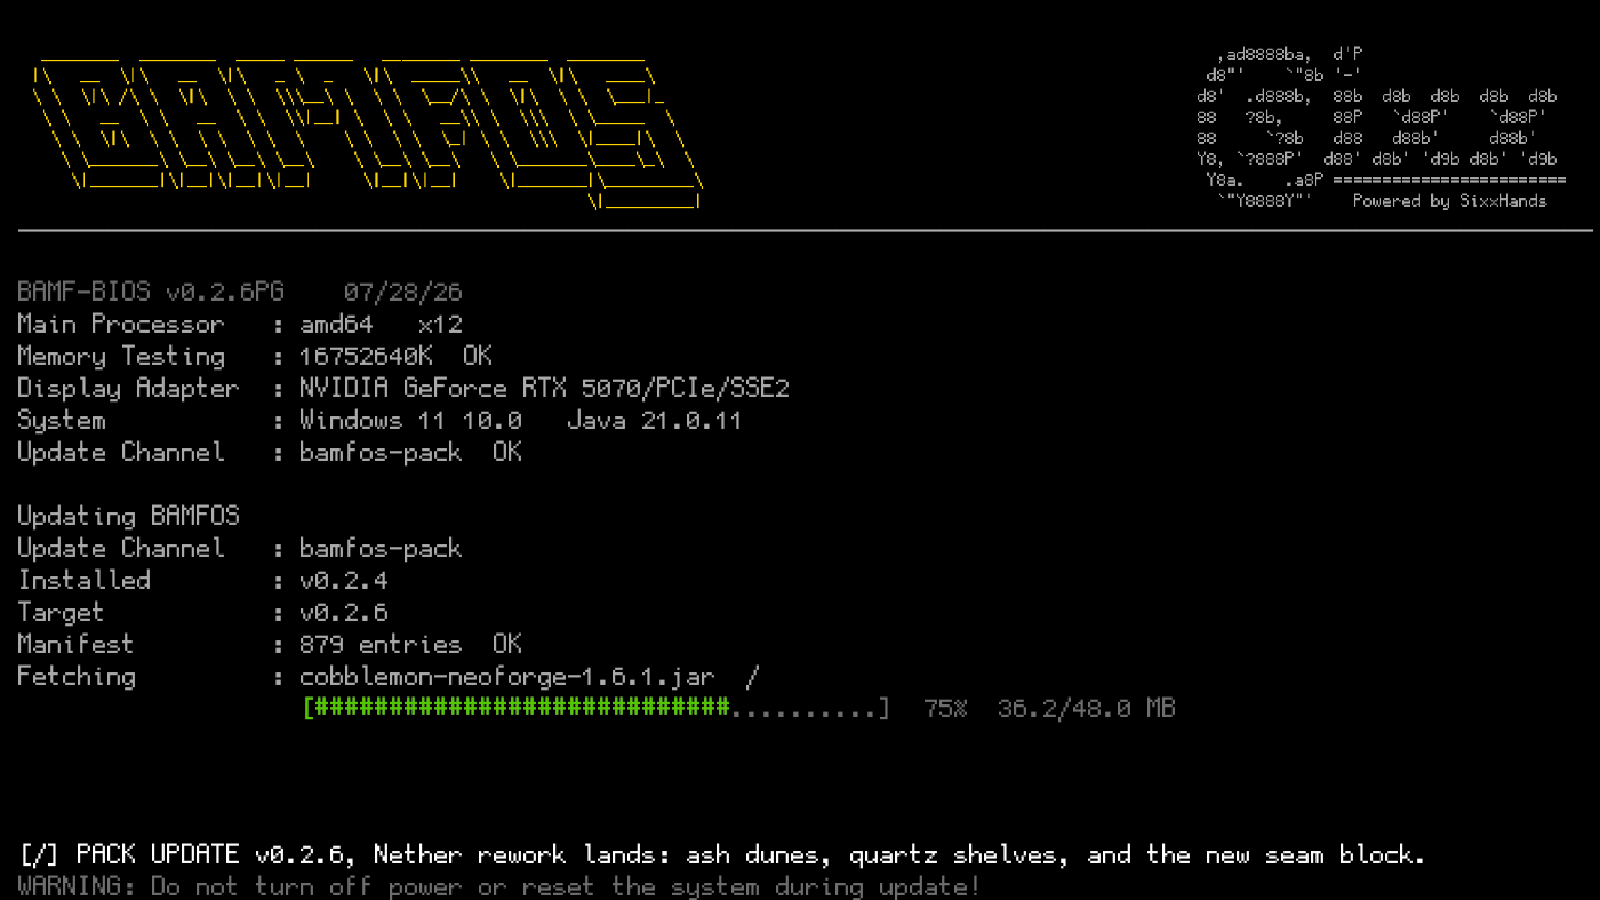
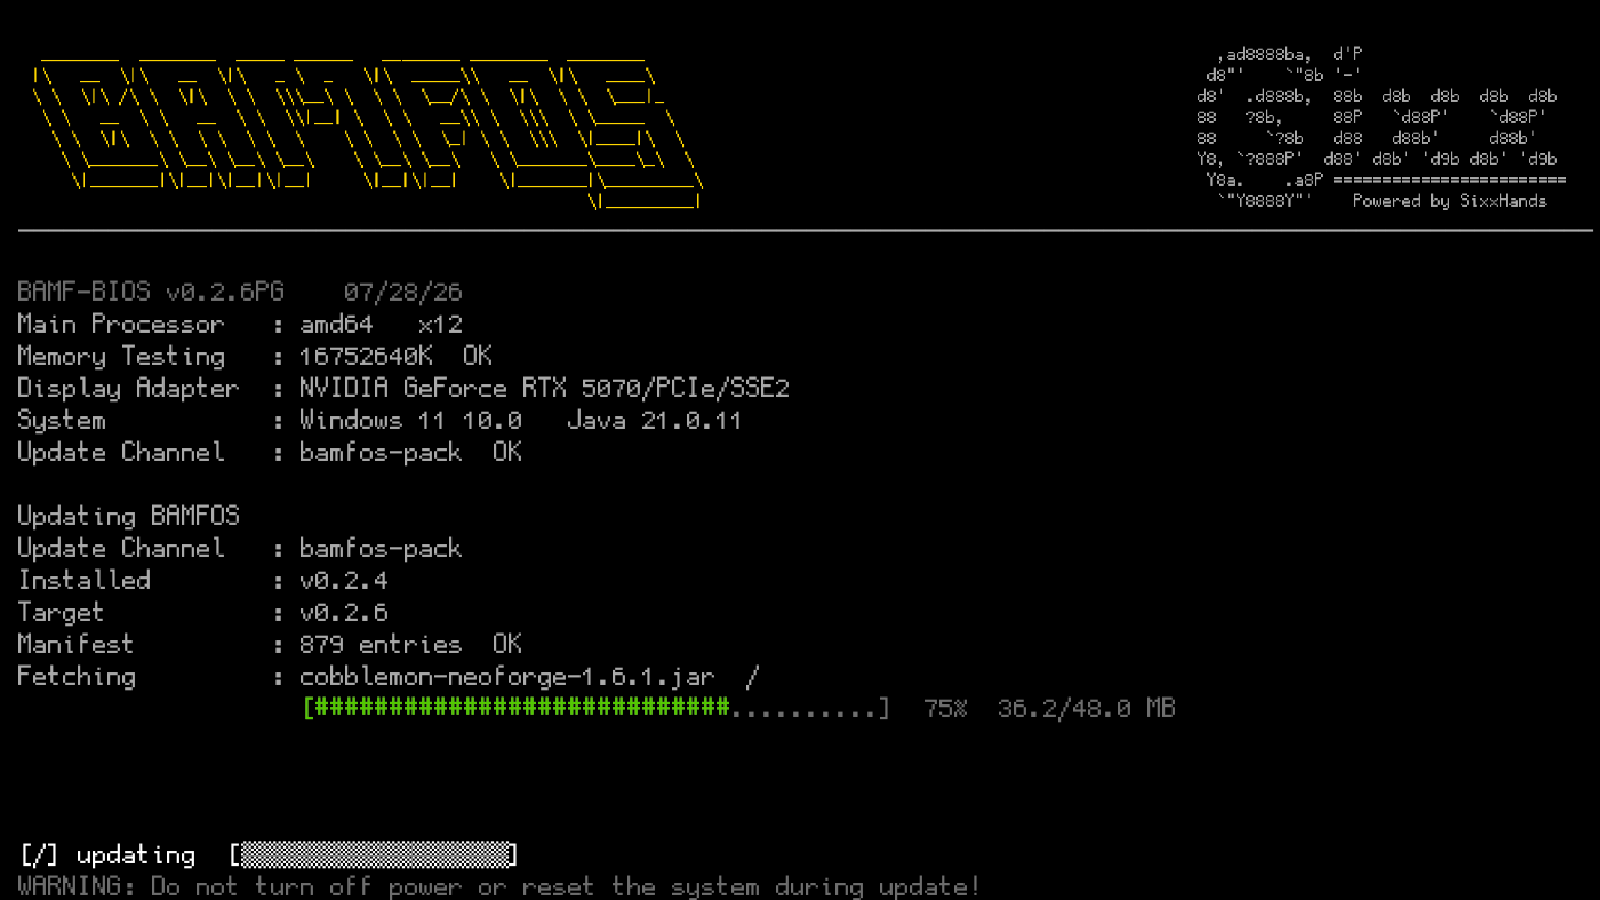
updating status line

Changed region(s): [[0.0312, 0.9333, 0.9062, 0.9644]]

diff --git a/earlywindow/src/main/java/com/retro/bamfmenu/early/bios/host/TerminalWindowProvider.java b/earlywindow/src/main/java/com/retro/bamfmenu/early/bios/host/TerminalWindowProvider.java
@@ -2901,10 +2901,6 @@ public class TerminalWindowProvider implements ImmediateWindowProvider {
 
     private String statusLine(int maxChars) {
         char spin = SPINNER[(frame / 3) % SPINNER.length];
-        if (updaterSyncActive && updaterFeed != null && !updaterFeed.note().isEmpty()) {
-            // the notes ARE the notification: headline rides the status line mid-sync
-            return clip("[" + spin + "] " + updaterFeed.note(), maxChars);
-        }
         String step = "loading"; // the no-label fallback, drawn for approximately zero frames
         int pct = -1;
         try {
@@ -2920,6 +2916,10 @@ public class TerminalWindowProvider implements ImmediateWindowProvider {
                 pct = (int) (pm.progress() * 100.0F);
             }
         } catch (Throwable ignored) {
+        }
+        if (updaterSyncActive) {
+            // One word sync row or something
+            step = "updating"; // lowercase to sit level with "loading", the row's other own-word state
         }
         String bar = asciiBar(pct, 18);
         String pctText = pct >= 0 ? " " + pct + "%" : "";

diff --git a/earlywindow/src/main/java/com/retro/bamfmenu/early/core/updater/UpdaterFeed.java b/earlywindow/src/main/java/com/retro/bamfmenu/early/core/updater/UpdaterFeed.java
@@ -219,7 +219,10 @@ public final class UpdaterFeed {
         return syncActive;
     }
 
-    /** The release-notes headline for the status line, "" until the engine sends one. */
+    /**
+     * Release-notes headline from the engine ("" until sent).
+     * Unused today (kept for a future what's-new display); remove along with the NOTE arm if dropped.
+     */
     public String note() {
         return note;
     }
